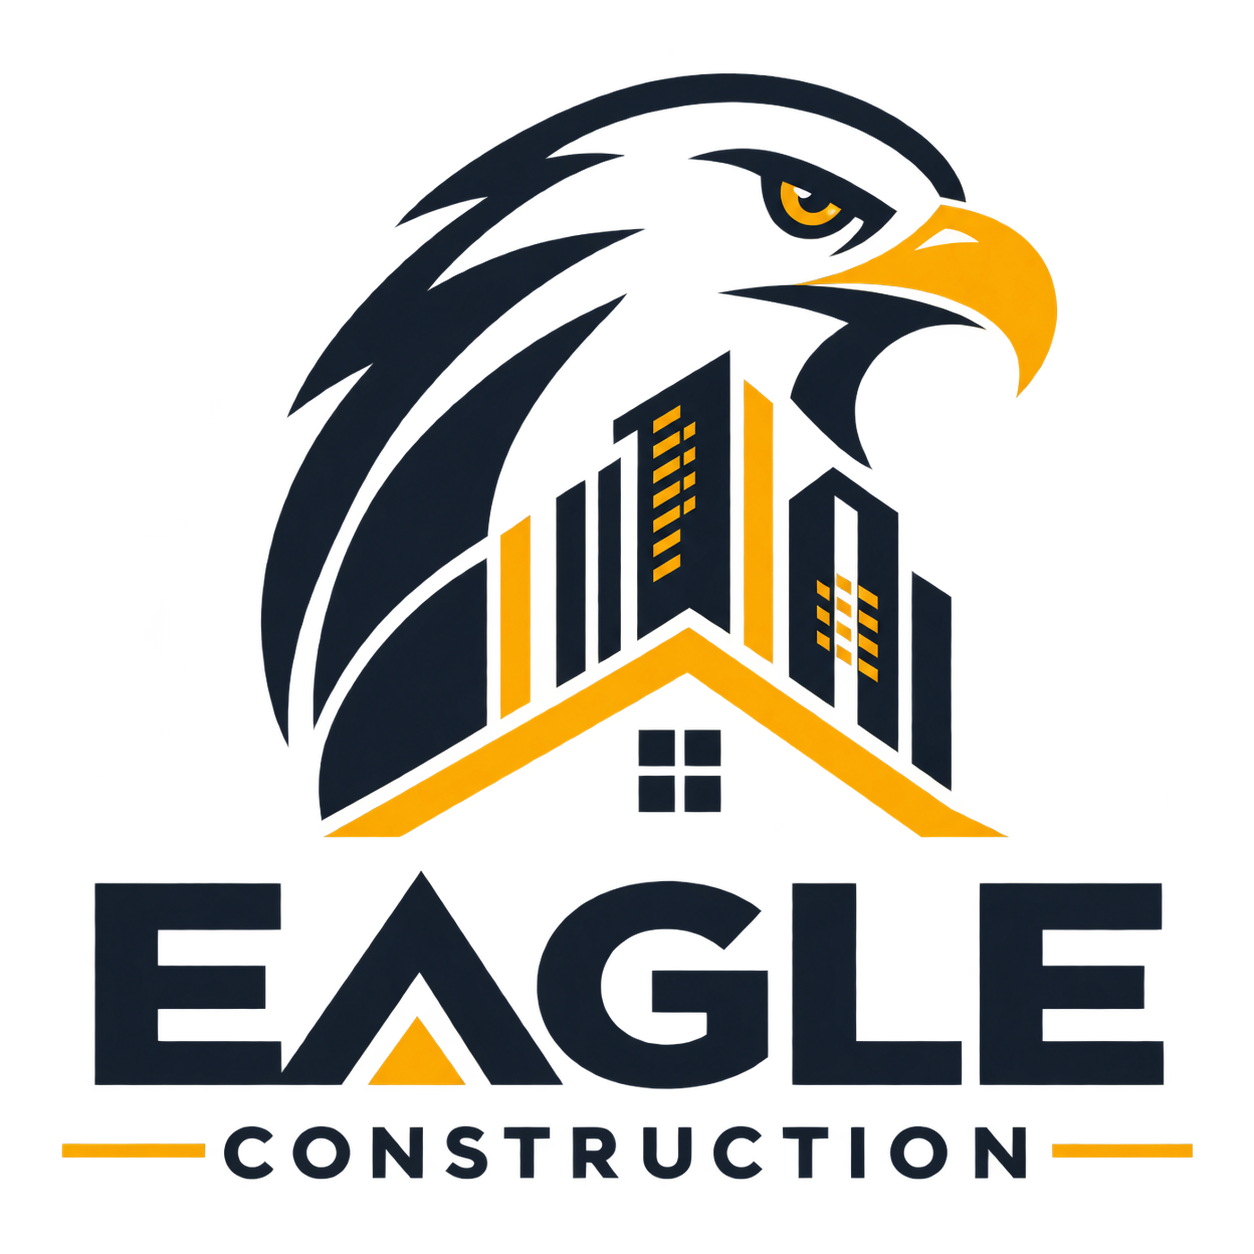
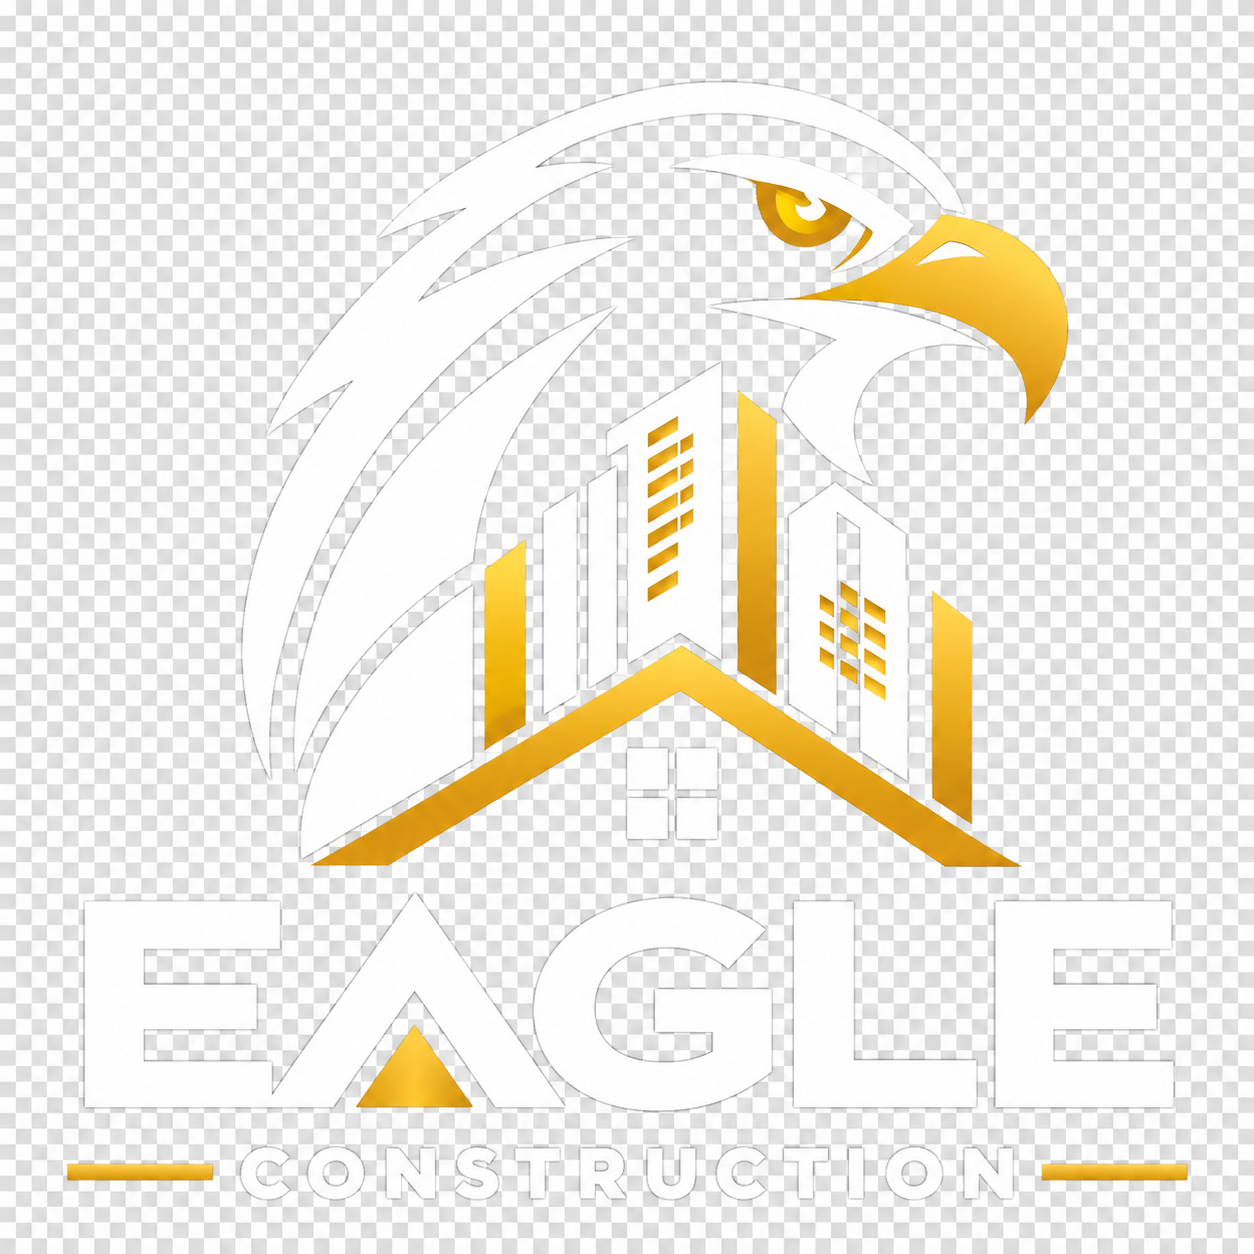
made header file dark

diff --git a/style.css b/style.css
@@ -44,7 +44,7 @@ html {
 body {
     font-family: var(--font-main);
     color: var(--text);
-    background: var(--white);
+    background: rgba(17, 17, 17, 0.96);
     line-height: 1.7;
     overflow-x: hidden;
 }
@@ -97,7 +97,7 @@ ul {
     width: 100%;
     z-index: 1000;
 
-    background: rgba(17, 17, 17, 0.92);
+    background: var(--dark);
     backdrop-filter: blur(15px);
 
     transition: var(--transition);
@@ -131,10 +131,9 @@ ul {
     width: 43px;
     height: 43px;
 
-    padding: 3px;
+    padding: 0;
 
-    background: var(--dark);
-    border: 1px solid var(--primary);
+    background: transparent;
     object-fit: contain;
 }
 
@@ -209,7 +208,7 @@ ul {
 
     background: var(--primary);
 
-    color: var(--dark);
+    color: var(--white);
 
     font-size: 13px;
     font-weight: 700;
@@ -228,7 +227,7 @@ ul {
     border: none;
     background: transparent;
 
-    color: var(--white);
+    color: var(--dark);
 
     font-size: 23px;
 }
